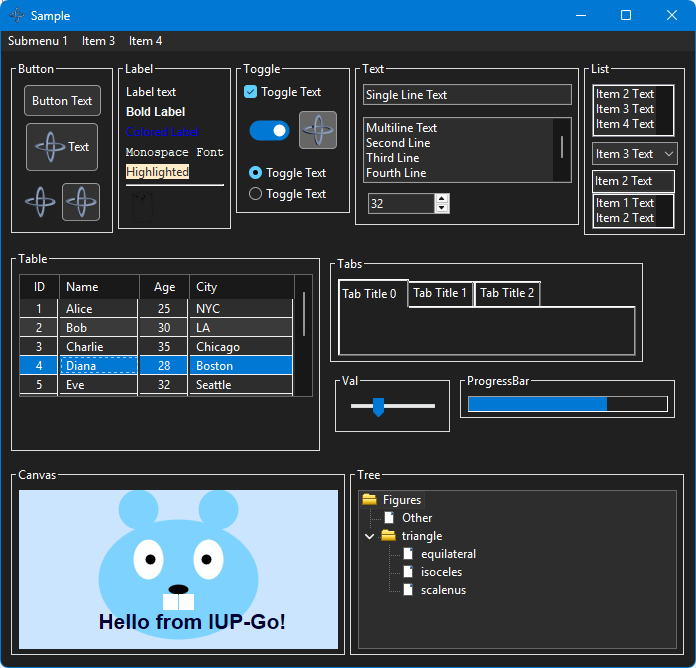
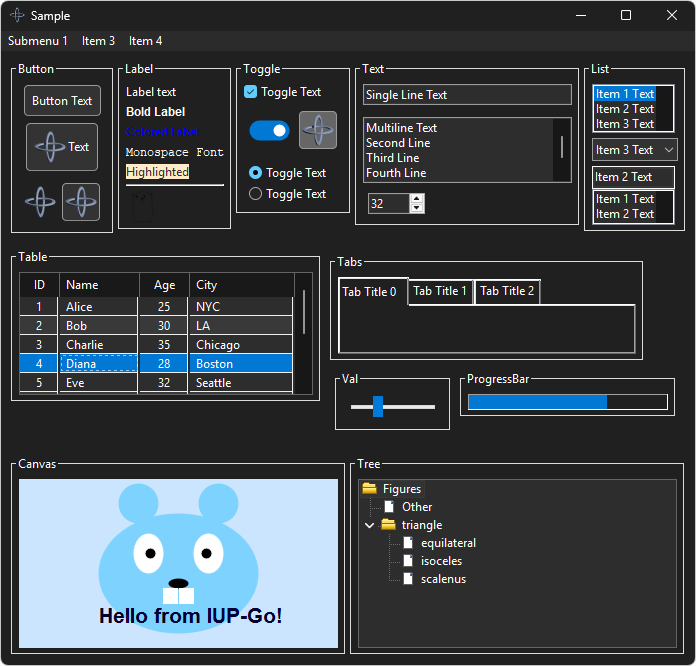
win: Keep the list selection visible in dark mode

diff --git a/iup/external/src/win/iupwin_darkmode.c b/iup/external/src/win/iupwin_darkmode.c
@@ -501,12 +501,12 @@ IUP_DRV_API void iupwinDarkModeApplyToWindow(HWND hwnd)
   if (!hwnd)
     return;
 
-  dark = iupwinDarkModeEnabled();
-  if (win_darkmode_supported)
-    my_AllowDarkModeForWindow(hwnd, dark ? TRUE : FALSE);
-
   if (GetClassNameW(hwnd, cls, 64) == 0)
     return;
+
+  dark = iupwinDarkModeEnabled();
+  if (win_darkmode_supported)  /* a dark-mode ListBox paints a white selection */
+    my_AllowDarkModeForWindow(hwnd, (dark && lstrcmpiW(cls, L"ListBox") != 0) ? TRUE : FALSE);
 
   if (lstrcmpiW(cls, L"SysListView32") == 0 || lstrcmpiW(cls, L"SysTreeView32") == 0)
   {
@@ -541,11 +541,7 @@ IUP_DRV_API void iupwinDarkModeApplyToWindow(HWND hwnd)
       if (cbi.hwndItem)
         winDarkModeTheme(cbi.hwndItem, L"DarkMode_CFD", dark);
       if (cbi.hwndList)
-      {
-        if (win_darkmode_supported)
-          my_AllowDarkModeForWindow(cbi.hwndList, dark? TRUE: FALSE);
         winDarkModeTheme(cbi.hwndList, L"DarkMode_Explorer", dark);
-      }
     }
   }
   else if (lstrcmpiW(cls, L"SysHeader32") == 0)
